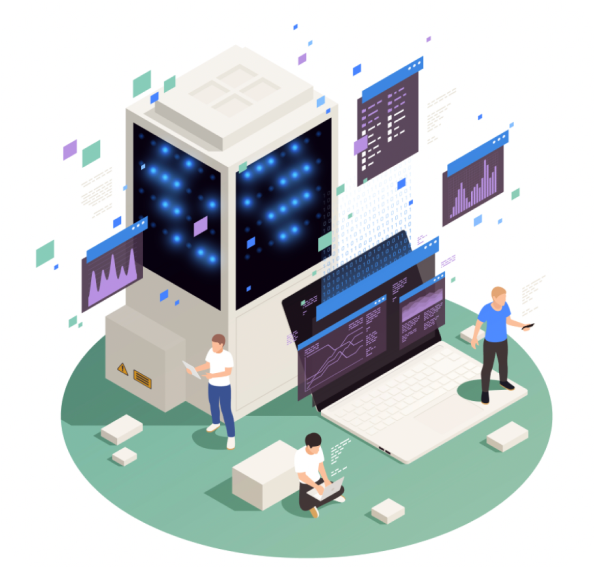
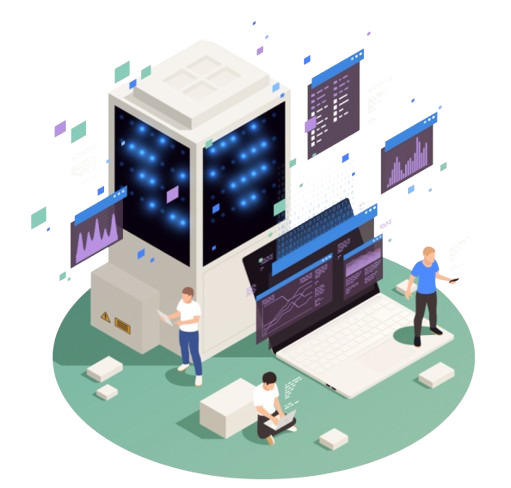
2025.03.26. CHH - mod update company part

diff --git a/src/potato/components/companyPage.tsx b/src/potato/components/companyPage.tsx
@@ -12,10 +12,28 @@ const CompanyPage = () => {
 
   // 스크롤 마다 동작하는 이벤트 - 회전값 변경
   const handleScroll = (e: WheelEvent) => {
+    e.preventDefault();
+
     if (e.deltaY > 0) {
-      setRotationAngle((prev) => prev - 120);
+      setCurrentStep((prev) => {
+        if (prev - 1 > -10) {
+          return prev - 1;
+        } else {
+          setRotationAngle((prev) => prev + 120);
+          return 0;
+        }
+      });
+      // setRotationAngle((prev) => prev - 120);
     } else if (e.deltaY < 0) {
-      setRotationAngle((prev) => prev + 120);
+      setCurrentStep((prev) => {
+        if (prev + 1 < 10) {
+          return prev + 1;
+        } else {
+          setRotationAngle((prev) => prev - 120);
+          return 0;
+        }
+      });
+      // setRotationAngle((prev) => prev + 120);
     }
   };
 
@@ -42,7 +60,7 @@ const CompanyPage = () => {
 
   return (
     <div ref={containerRef}>
-      <div className={`container w-screen h-screen flex gap-5 justify-around items-center`}>
+      <div className={`container w-screen h-screen flex  justify-between items-center`}>
         <CompanyText selectedIndex={selectedIndex} />
         <CompanyCircle
           smallCirclePositions={smallCirclePositions}
@@ -62,7 +80,7 @@ const CompanyText = ({ selectedIndex }) => {
   const contents = [
     "우리는 다년간 쌓아온 언어, 문서, 재난, 의료과학\n분야에 전문화된 데이터 처리 기술을 통해\n미래의 새로운 가치를 발굴합니다.",
     "데이터는 우리가 살고 있는 세상을 다르게 볼 수 있는\n 정보를 제공하며, 데이터 분석을 통해 의미를 추출하고\n 더 나은 결정을 내릴 수 있도록 연구하고 개발합니다.",
-    "데이터 시각화를 통하여 모든 일련의 과정을 설명하며,\n 다양한 시각적 요소를 활용해 복잡한 데이터의 이해를 돕고\n 누구든지 쉽게 정보를 이해할 수 있도록 합니다.",
+    "데이터 시각화를 통하여 모든 일련의 과정을\n 설명하며, 다양한 시각적 요소를 활용해\n 누구든지 쉽게 정보를 이해할 수 있도록 합니다.",
   ];
   return (
     <motion.div
@@ -84,13 +102,19 @@ const CompanyText = ({ selectedIndex }) => {
 
 const CompanyCircle = ({ rotationAngle, smallCirclePositions, selectedIndex }) => {
   const c_color = "#9BBB59";
-  const img_link = selectedIndex === 0 ? "company_dataProcessing.png" : "";
+  const img_size = selectedIndex === 2 ? " w-[380px] h-[300px]" : " w-[350px] h-[350px] ";
+  const img_link =
+    selectedIndex === 0
+      ? "/img/company_dataProcessing.png"
+      : selectedIndex === 1
+      ? "/img/company_dataAnalysis.png"
+      : "/img/company_dataVisualizing.png";
   return (
-    <div className={`relative w-[600px] h-[600px]`}>
-      <FloatingImage img_link={img_link} />
+    <div className={`relative w-[750px] h-[750px] `}>
+      <FloatingImage img_link={img_link} img_size={img_size} />
 
       <motion.svg // 애니메이션 공간 확보
-        className="w-[600px] h-[600px] absolute "
+        className="w-[750px] h-[750px] absolute "
         viewBox="0 0 100 100"
         animate={{ rotate: rotationAngle }}
         transition={{ duration: 1.2 }}
@@ -176,20 +200,21 @@ const CompanyCircle = ({ rotationAngle, smallCirclePositions, selectedIndex }) =
     </div>
   );
 };
-const FloatingImage = ({ img_link }) => {
+const FloatingImage = ({ img_link, img_size }) => {
   return (
     <motion.img
       key={img_link}
       src={img_link} // 이미지 경로
       alt="Floating Image"
-      className={`h-[240px] w-[240px] absolute top-1/2 left-1/2 `}
-      // initial={{ y: 0 }}
+      className={` ${img_size} absolute top-1/2 left-1/2  drop-shadow-2xl `}
+      initial={{ x: "-50%", y: "-100%" }}
       animate={{
-        x: ["-50%"],
-        y: ["-50%", "-60%", "-50%"], // 위로 20px 이동 후 다시 원래 위치로
+        x: ["-50%", "-50%", "-50%"],
+        y: ["-50%", "-60%", "-50%"],
+        // 위로 20px 이동 후 다시 원래 위치로
       }}
       transition={{
-        delay: 1.5,
+        // delay: 0.5,
         duration: 3, // 애니메이션 지속 시간 (초)
         repeat: Infinity, // 무한 반복
         repeatType: "reverse", // 왕복 애니메이션
